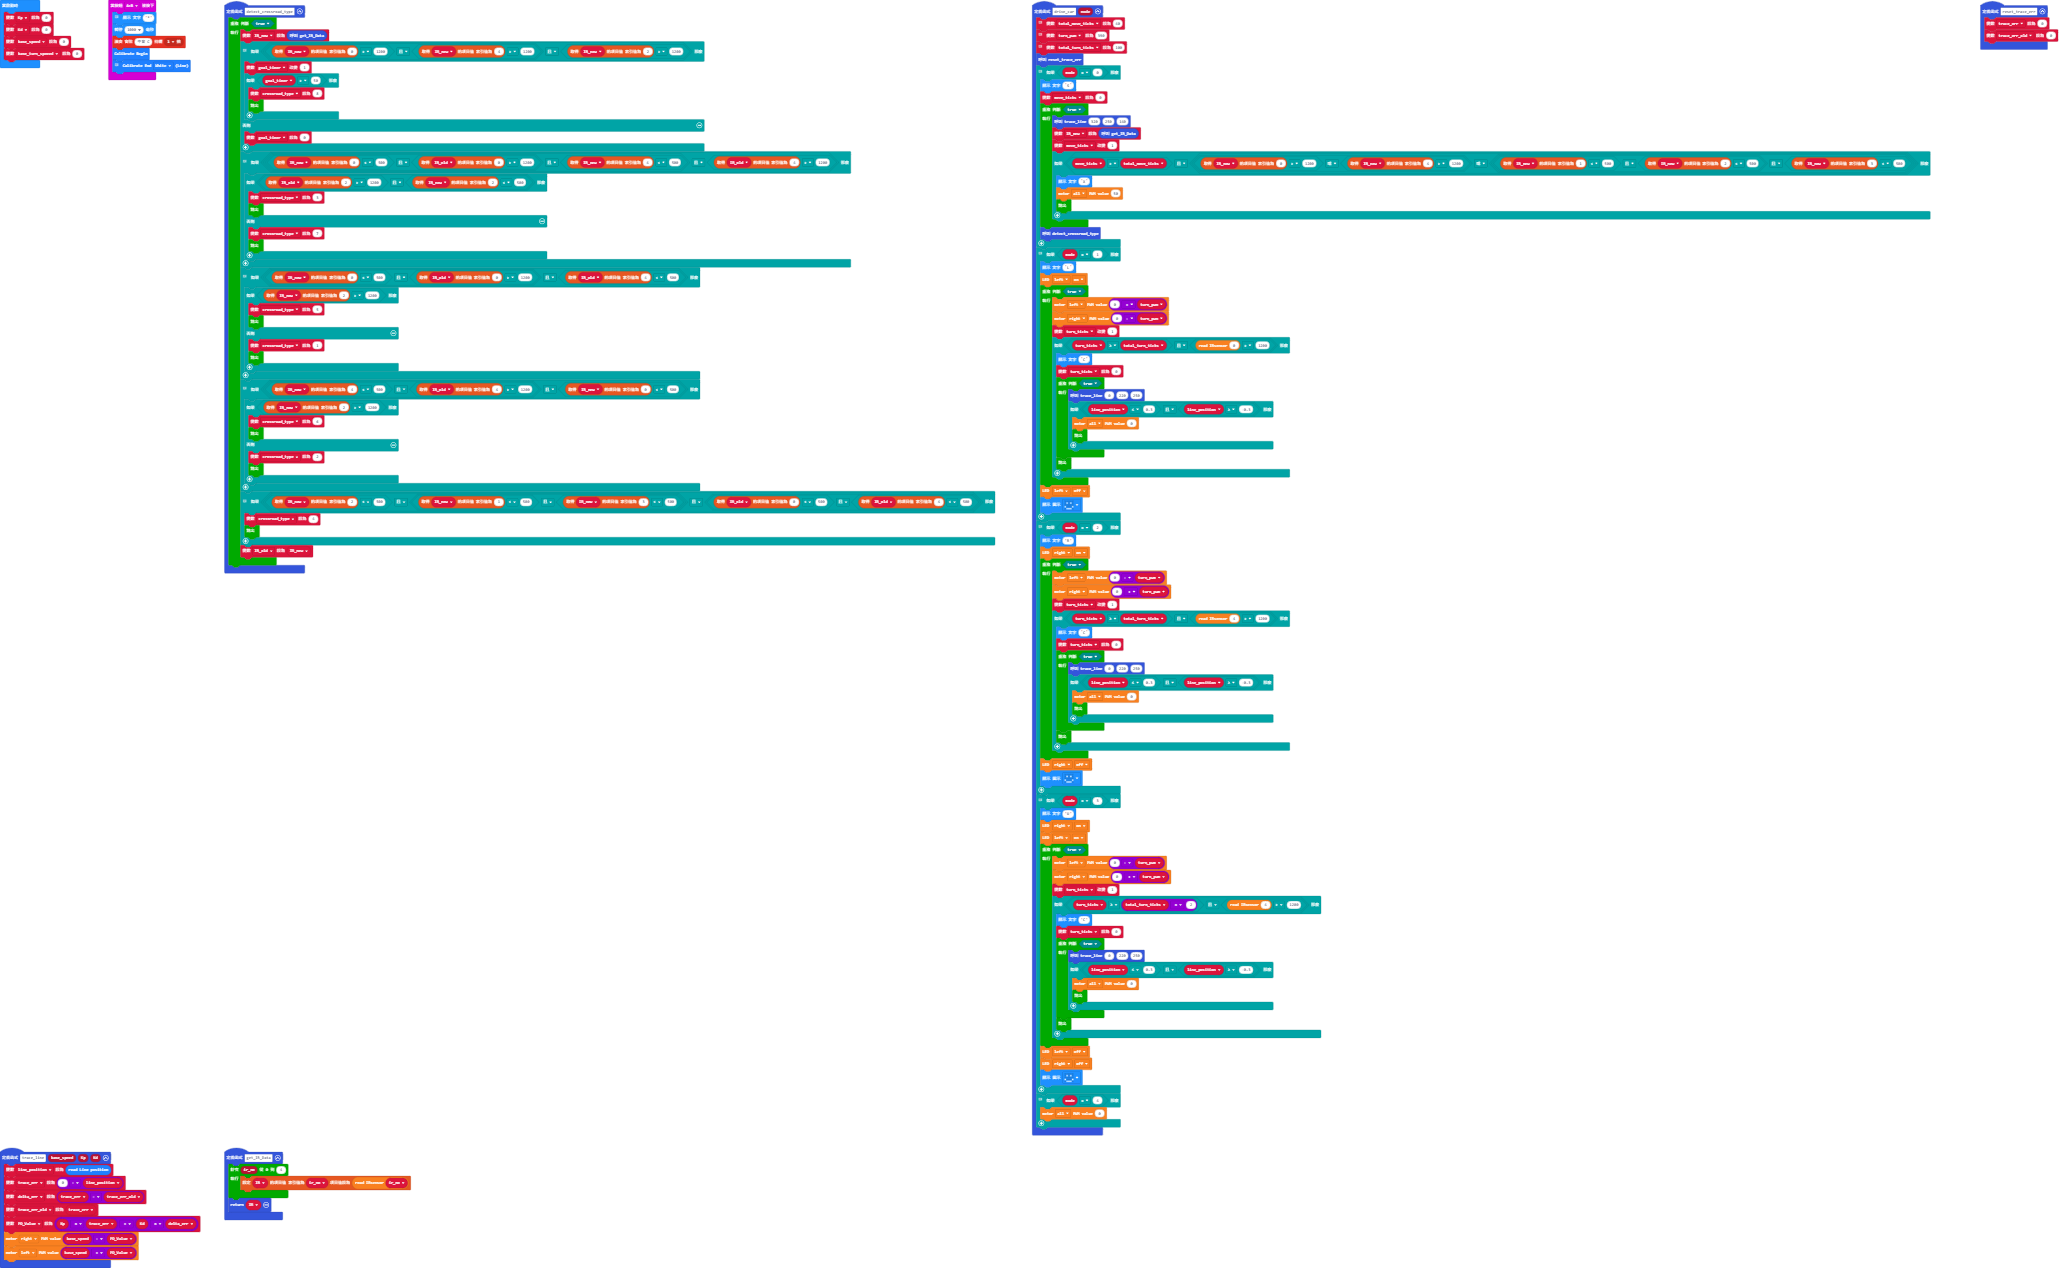
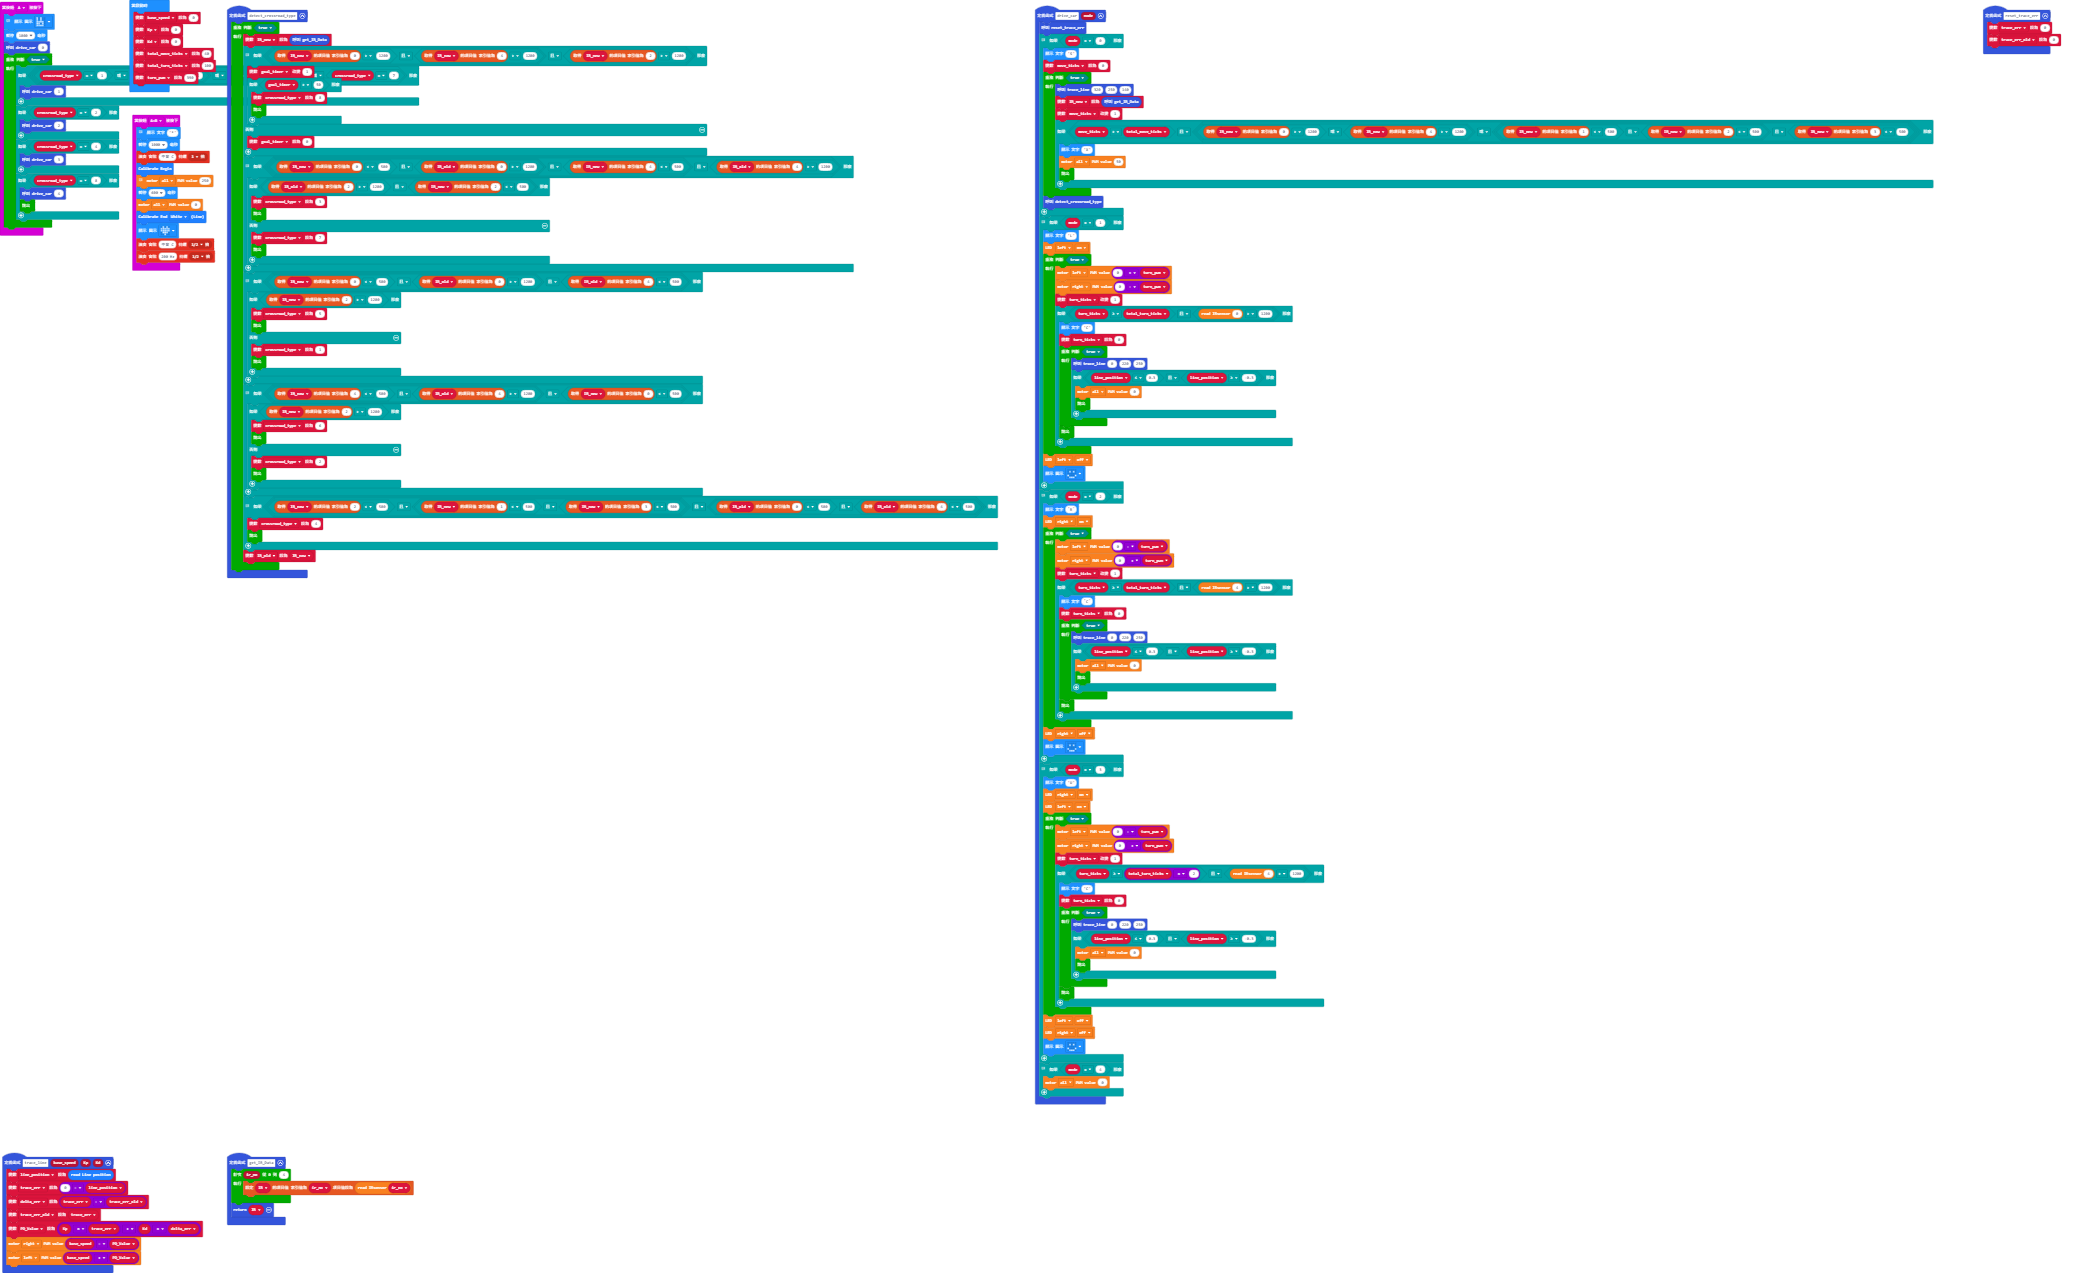
Update main.blocks, main.ts

diff --git a/main.ts b/main.ts
@@ -62,6 +62,27 @@ function trace_line (base_speed: number, Kp: number, Kd: number) {
     BitRacer.motorRun(BitRacer.Motors.M_L, base_speed - PD_Value)
     BitRacer.motorRun(BitRacer.Motors.M_R, base_speed + PD_Value)
 }
+input.onButtonPressed(Button.A, function () {
+    // 搜尋迷宮
+    basic.showIcon(IconNames.Rabbit)
+    basic.pause(1000)
+    drive_car(0)
+    while (true) {
+        if (crossroad_type == 1 || crossroad_type == 5 || crossroad_type == 3 || crossroad_type == 7) {
+            drive_car(1)
+        }
+        if (crossroad_type == 2) {
+            drive_car(2)
+        }
+        if (crossroad_type == 4) {
+            drive_car(3)
+        }
+        if (crossroad_type == 8) {
+            drive_car(4)
+            break;
+        }
+    }
+})
 function drive_car (mode: number) {
     reset_trace_err()
     // mode == 0 直走
@@ -168,7 +189,7 @@ input.onButtonPressed(Button.AB, function () {
     // 雙輪PWM=250移動600ms
     BitRacer.motorRun(BitRacer.Motors.All, 250)
     basic.pause(600)
-    BitRacer.motorRun(BitRacer.Motors.All, 0)   
+    BitRacer.motorRun(BitRacer.Motors.All, 0)
     BitRacer.CalibrateEnd(BitRacer.LineColor.White)
     basic.showIcon(IconNames.Heart)
     music.playTone(262, music.beat(BeatFraction.Half))
@@ -181,26 +202,23 @@ function get_IR_Data () {
     }
     return IR
 }
-// 直線區域移動次數
-let move_ticks = 0
-// 直線區域預計可移動總次數
-const total_move_ticks:number = 40
-// 轉彎區域移動次數
 let turn_ticks = 0
-// 轉彎區域預計可移動總次數
-const total_turn_ticks: number = 100
-// 轉彎的PWM值
-const turn_pwm: number = 390
+let move_ticks = 0
 let PD_Value = 0
-let line_position:number = 0
-let trace_err_old:number = 0
-let trace_err:number = 0
-let delta_err:number = 0
+let delta_err = 0
+let line_position = 0
+let trace_err_old = 0
+let trace_err = 0
 let IR_old: number[] = []
+let crossroad_type = 0
+let goal_timer = 0
 let IR_new: number[] = []
-let crossroad_type: number = 0
-let goal_timer:number = 0
-let Kp:number = 0
-let Kd:number = 0
-let base_speed:number = 0
-
+let turn_pwm = 0
+let total_turn_ticks = 0
+let total_move_ticks = 0
+let base_speed = 0
+let Kp = 0
+let Kd = 0
+total_move_ticks = 40
+total_turn_ticks = 100
+turn_pwm = 390
